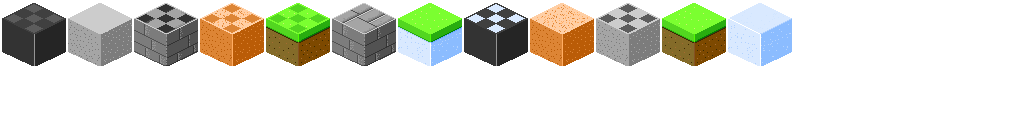
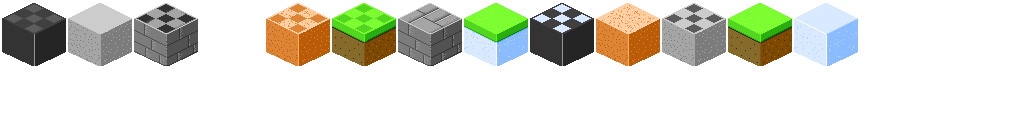
Added "my zone" animation.

Changed region(s): [[0.1875, 0.0312, 0.8438, 0.5312]]

diff --git a/core/src/eagea/nodeio/view/object/map/ZoneV.java b/core/src/eagea/nodeio/view/object/map/ZoneV.java
@@ -7,42 +7,67 @@ import java.util.Observer;
 
 import eagea.nodeio.GameScreen;
 import eagea.nodeio.model.logic.map.ZoneM;
+import eagea.nodeio.model.logic.player.PlayerM;
 
 /**
  * A zone of the game map.
  */
 public class ZoneV implements Observer
 {
+    private final int FRAMES_PER_ANIMATION = 2;
+    private final float TIME_PER_FRAME = 0.5f;
+
     // Model.
     private final ZoneM mZone;
+    private final PlayerM mPlayer;
     // Zone's cells.
     private final CellV[][] mCells;
+    // Cells' animation.
+    private boolean mHighlighted;
+    private float mTimeSinceLastRender;
 
-    public ZoneV(ZoneM zone)
+    public ZoneV(ZoneM zone, PlayerM player)
     {
         // Get the model and observe it.
+        mPlayer = player;
         mZone = zone;
         mZone.addObserver(this);
         // Load the cells.
         mCells = new CellV[ZoneM.SIZE][ZoneM.SIZE];
+        mHighlighted = false;
+        mTimeSinceLastRender = 0f;
+        // Texture common to all the cell animation.
+        TextureRegion texture = GameScreen.mEnvironmentAtlas.findRegion("highlighted");
 
         for (int i = 0; i < ZoneM.SIZE; i ++)
         {
             for (int j = 0; j < ZoneM.SIZE; j ++)
             {
-                mCells[i][j] = new CellV(mZone.getPositionInMap(), i, j, getCellTexture());
+                mCells[i][j] = new CellV(mZone, i, j,
+                        new TextureRegion[]{ getCellTexture(), texture });
             }
         }
     }
 
-    public void render()
+    public void render(float delta)
     {
+        // Check if cells should be highlighted.
+        if (mZone.getOwner() == mPlayer)
+        {
+            mTimeSinceLastRender += delta;
+
+            if (mTimeSinceLastRender >= TIME_PER_FRAME)
+            {
+                mTimeSinceLastRender = 0f;
+                mHighlighted = ! mHighlighted;
+            }
+        }
         // Reverse render order because of isometric rendering.
         for (int i = ZoneM.SIZE - 1; i >= 0 ; i --)
         {
             for (int j = ZoneM.SIZE - 1; j >= 0 ; j --)
             {
-                mCells[i][j].render();
+                mCells[i][j].render(delta, mHighlighted);
             }
         }
     }

diff --git a/core/src/eagea/nodeio/model/Model.java b/core/src/eagea/nodeio/model/Model.java
@@ -16,7 +16,6 @@ public class Model
     // Player ID (i.e. its color, and its zone type).
     public enum Type { BLACK, GRASS, GRAVEL, ROCK, SAND, SNOW }
 
-    private Type mType;
     // RabbitMQ.
     private Node mNode;
     // The map.
@@ -28,12 +27,9 @@ public class Model
 
     public Model()
     {
-        // Assign a random type to the player.
-        mType = Type.values()[(int) (Math.random() * Type.values().length)];
-
         initNode();
-        initMap();
         initPlayers();
+        initMap();
 
         // Notify RabbitMQ new player.
         //mNode.notifyNewNode(mPlayer, mMap.get(mMap.size() - 1)));
@@ -66,8 +62,22 @@ public class Model
             mMap = new MapM();
         }
         // In all the cases, add our zone to the map.
-        ZoneM zone = new ZoneM(mType, mMap.getNbZones());
+        ZoneM zone = new ZoneM(mPlayer,
+                Type.values()[(int) (Math.random() * Type.values().length)], mMap.getNbZones());
         mMap.add(zone);
+        // Set player's attributes.
+        mPlayer.setZone(zone.getPositionInMap());
+        mPlayer.setMap(mMap);
+
+
+
+        // !!!!TEST!!!!!
+        for (int i = 0 ; i <= 30 ; i ++)
+        {
+            zone = new ZoneM(null,
+                    Type.values()[(int) (Math.random() * Type.values().length)], mMap.getNbZones());
+            mMap.add(zone);
+        }
     }
 
     /**
@@ -88,29 +98,14 @@ public class Model
         {
             mPlayers = new ArrayList<>();
         }
-        // In all the cases, add our player to the map with an Id
-        mPlayer = new PlayerM(mType, mMap.getNbZones() - 1, 0, 0, mMap);
+        // In all the cases, add our player to the map.
+        mPlayer = new PlayerM(0, 0);
         mPlayers.add(mPlayer);
-
-
-
-        // !!!!TEST!!!!!
-        for (int i = 0 ; i <= 30 ; i ++)
-        {
-            mMap.add(new ZoneM(
-                    Type.values()[(int) (Math.random() * Type.values().length)]
-                    , mMap.getNbZones()));
-        }
     }
 
     public void addPlayer(PlayerM player)
     {
         mPlayers.add(player);
-    }
-
-    public Type getType()
-    {
-        return mType;
     }
 
     public MapM getMap()

diff --git a/core/src/eagea/nodeio/view/object/map/CellV.java b/core/src/eagea/nodeio/view/object/map/CellV.java
@@ -1,7 +1,10 @@
 package eagea.nodeio.view.object.map;
 
+import com.badlogic.gdx.graphics.Color;
 import com.badlogic.gdx.graphics.g2d.TextureRegion;
 import com.badlogic.gdx.math.Vector2;
+
+import java.util.Timer;
 
 import eagea.nodeio.Main;
 import eagea.nodeio.model.logic.map.MapM;
@@ -14,24 +17,41 @@ public class CellV
 {
     public static final float TILE_SIZE = 2f;
 
+    // Parent.
+    private final ZoneM mZone;
     // Current frame.
-    private final TextureRegion mTexture;
+    private final TextureRegion[] mTextures;
     // Position relative to the player, in number of cells.
     private final Vector2 mPosition;
 
-    public CellV(int zone, float i, float j, TextureRegion texture)
+    public CellV(ZoneM zone, float i, float j, TextureRegion[] textures)
     {
-        mTexture = texture;
+        mZone = zone;
+        mTextures = textures;
         // From zone indexes to map ones.
-        int deltaI = (zone / MapM.ZONE_LINE) * ZoneM.SIZE;
-        int deltaJ = (zone % MapM.ZONE_LINE) * ZoneM.SIZE;
+        int deltaI = (zone.getPositionInMap() / MapM.ZONE_LINE) * ZoneM.SIZE;
+        int deltaJ = (zone.getPositionInMap() % MapM.ZONE_LINE) * ZoneM.SIZE;
         mPosition = new Vector2(i + deltaI, j + deltaJ);
     }
 
-    public void render()
+    public void render(float delta, boolean highlight)
     {
         // Draw.
-        Main.mBatch.draw(mTexture, getXPosition(), getYPosition(), TILE_SIZE, TILE_SIZE);
+        Main.mBatch.draw(mTextures[0],
+                getXPosition(),
+                getYPosition(),
+                TILE_SIZE,
+                TILE_SIZE);
+
+        if (highlight)
+        {
+            // Highlight the player cells.
+            Main.mBatch.draw(mTextures[1],
+                    getXPosition(),
+                    getYPosition(),
+                    TILE_SIZE,
+                    TILE_SIZE);
+        }
     }
 
     /**

diff --git a/core/src/eagea/nodeio/model/logic/player/PlayerM.java b/core/src/eagea/nodeio/model/logic/player/PlayerM.java
@@ -17,20 +17,15 @@ public class PlayerM extends Observable implements Serializable
     // Direction of movements.
     public enum Orientation { LEFT, RIGHT, UP, DOWN }
 
-    // Its type of zone (ID).
-    private Model.Type mType;
     // Coordinate in its current zone (array like).
     private int mZone;
     private final Vector2 mPosition;
     // Current environment.
-    private final MapM mMap;
+    private MapM mMap;
 
-    public PlayerM(Model.Type type, int zone, int i, int j, MapM mapM)
+    public PlayerM(int i, int j)
     {
-        mType = type;
-        mZone = zone;
         mPosition = new Vector2(i, j);
-        mMap = mapM;
     }
 
     public void moveRight()
@@ -145,14 +140,14 @@ public class PlayerM extends Observable implements Serializable
         notifyObservers(Orientation.DOWN);
     }
 
-    public void setType(Model.Type type)
+    public void setMap(MapM map)
     {
-        mType = type;
+        mMap = map;
     }
 
-    public Model.Type getType()
+    public void setZone(int zone)
     {
-        return mType;
+        mZone = zone;
     }
 
     public int getZone()

diff --git a/core/src/eagea/nodeio/model/logic/map/ZoneM.java b/core/src/eagea/nodeio/model/logic/map/ZoneM.java
@@ -4,6 +4,8 @@ import java.io.Serializable;
 import java.util.Observable;
 
 import eagea.nodeio.model.Model;
+import eagea.nodeio.model.logic.player.PlayerM;
+import eagea.nodeio.view.object.player.PlayerV;
 
 /**
  * A zone of the game map.
@@ -12,21 +14,33 @@ public class ZoneM extends Observable implements Serializable
 {
     public static final int SIZE = 4;
 
-    // Type of zone (ID).
+    private PlayerM mOwner;
+    // Type of zone.
     private Model.Type mType;
     // Zone position in map.
     private final int mPositionInMap;
 
-    public ZoneM(Model.Type type, int id)
+    public ZoneM(PlayerM owner, Model.Type type, int id)
     {
+        mOwner = owner;
         mType = type;
         // Position in map.
         mPositionInMap = id;
     }
 
+    public void setOwner(PlayerM owner)
+    {
+        mOwner = owner;
+    }
+
     public void setType(Model.Type type)
     {
         mType = type;
+    }
+
+    public PlayerM getOwner()
+    {
+        return mOwner;
     }
 
     public Model.Type getType()

diff --git a/core/src/eagea/nodeio/view/object/map/MapV.java b/core/src/eagea/nodeio/view/object/map/MapV.java
@@ -33,16 +33,16 @@ public class MapV implements Observer
         mPlayer.addObserver(this);
         // Load the zones.
         mZones = new ArrayList<>();
-        mMap.getZones().forEach(z -> mZones.add(new ZoneV(z)));
+        mMap.getZones().forEach(z -> mZones.add(new ZoneV(z, player)));
 
     }
 
-    public void render()
+    public void render(float delta)
     {
         // Reverse render order because of isometric rendering.
         for (int i = mZones.size() - 1 ; i >= 0 ; i --)
         {
-            mZones.get(i).render();
+            mZones.get(i).render(delta);
         }
     }
 

diff --git a/core/src/eagea/nodeio/model/rabbitmq/Node.java b/core/src/eagea/nodeio/model/rabbitmq/Node.java
@@ -21,7 +21,7 @@ import eagea.nodeio.model.logic.player.PlayerM;
 public class Node
 {
     private Channel mChannel;
-    private Model mModel;
+    private final Model mModel;
 
     private static final String EXCHANGE_NODES = "nodes";
     private static final String QUEUE_NEWNODE = "newnode";

diff --git a/core/src/eagea/nodeio/view/View.java b/core/src/eagea/nodeio/view/View.java
@@ -29,7 +29,7 @@ public class View
 
     public void render(float delta)
     {
-        mMap.render();
+        mMap.render(delta);
         mPlayer.render(delta);
     }
 
